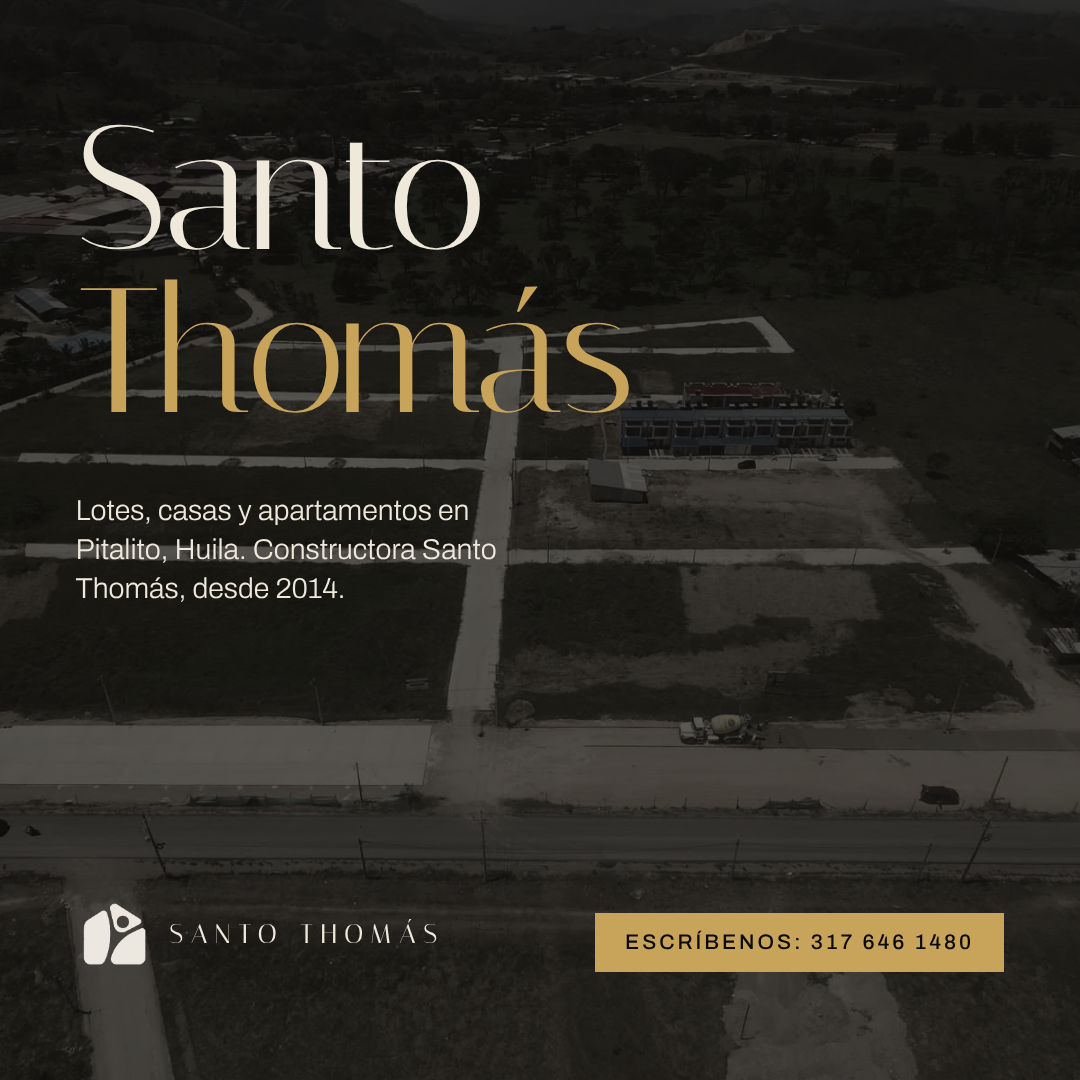
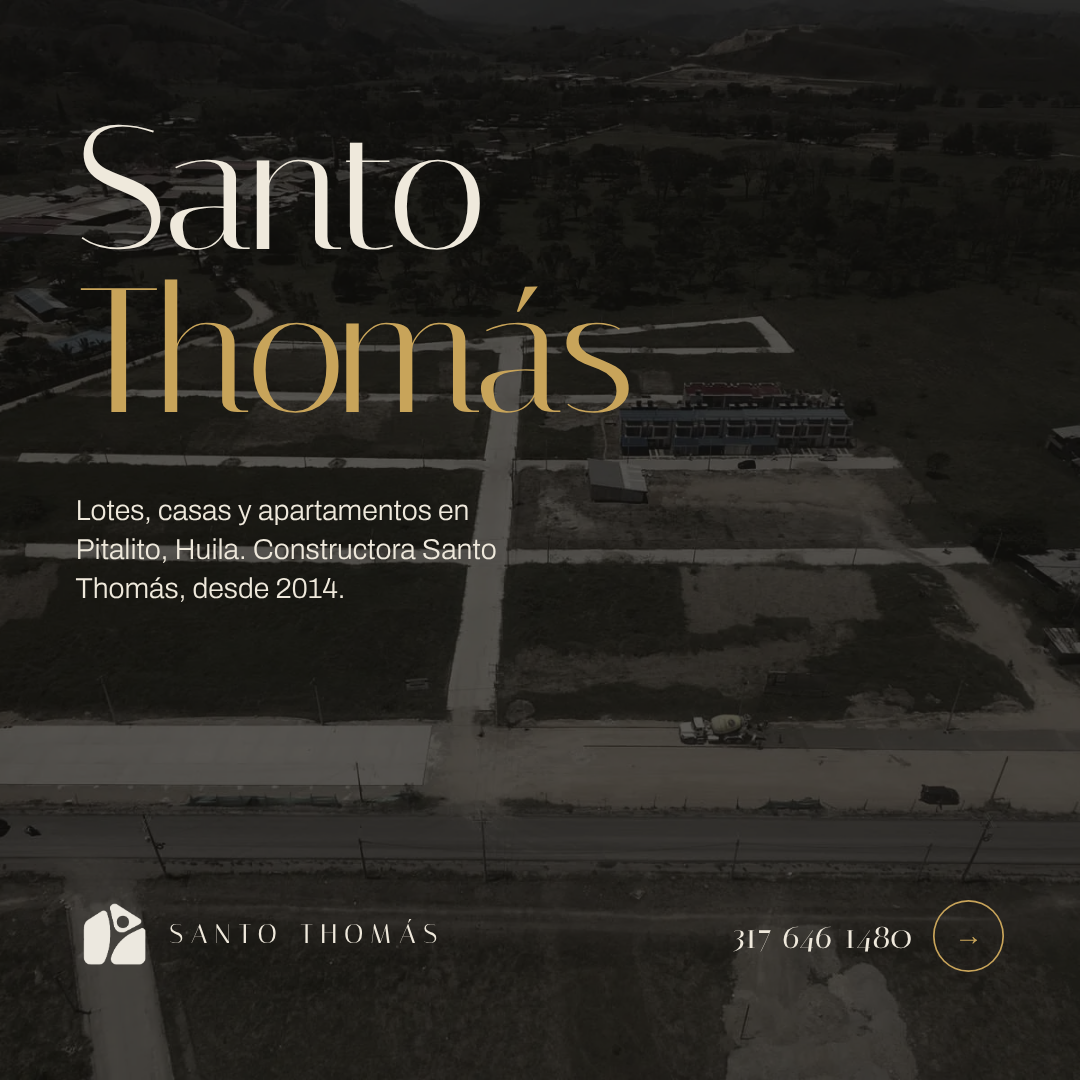
Santo Thomás page: lighter primary actions with animated arrow circle
Claude-Session: https://claude.ai/code/session_01EuNx7qHGaqCun31qjyEdxN

Changed region(s): [[0.55, 0.825, 0.9472, 0.9167]]

diff --git a/santo-thomas/index.html b/santo-thomas/index.html
@@ -80,10 +80,17 @@ em{font-style:normal;color:var(--oro)}
 .accion:hover::before,.accion:focus-visible::before{width:84px}
 .accion:hover{color:var(--oro)}
 .accion:active::before{width:96px}
-.accion.oro{background:var(--oro);color:var(--negro);padding:0 28px;min-height:54px;gap:0;transition:background .3s,transform .15s}
+/* Acción principal: texto en serif y un círculo con flecha que se llena de oro al pasar */
+.accion.oro{gap:18px;min-height:56px;padding:0;background:none;color:inherit;font-family:var(--serif);font-size:clamp(21px,1.7vw,26px);font-weight:400;letter-spacing:0;text-transform:none;line-height:1.1}
 .accion.oro::before{display:none}
-.accion.oro:hover{background:#d8b871;color:var(--negro)}
-.accion.oro:active{transform:translateY(2px)}
+.accion.oro > span{background:linear-gradient(var(--oro),var(--oro)) left bottom/0 1px no-repeat;padding-bottom:5px;transition:background-size .6s var(--salir)}
+.accion.oro::after{content:"\2192";flex:none;display:grid;place-items:center;width:56px;height:56px;border-radius:50%;font:300 20px/1 Archivo,sans-serif;color:var(--oro);box-shadow:inset 0 0 0 1px var(--oro);background:radial-gradient(circle,var(--oro) 50%,transparent 51%) center/0 0 no-repeat;transition:background-size .55s var(--salir),color .3s,transform .55s var(--salir)}
+.accion.oro.abajo::after{content:"\2193"}
+.accion.oro:hover,.accion.oro:focus-visible{color:inherit}
+.accion.oro:hover > span,.accion.oro:focus-visible > span{background-size:100% 1px}
+.accion.oro:hover::after,.accion.oro:focus-visible::after{background-size:220% 220%;color:var(--negro);transform:translateX(8px)}
+.accion.oro.abajo:hover::after{transform:translateY(6px)}
+.accion.oro:active::after{transform:scale(.92)}
 .enlace{text-decoration:underline;text-decoration-color:var(--bronce);text-decoration-thickness:1px;text-underline-offset:5px;transition:color .25s}
 .enlace:hover{color:var(--oro)}
 
@@ -286,8 +293,9 @@ em{font-style:normal;color:var(--oro)}
 .cierre .campo .rot{color:rgba(11,10,8,.72)}
 .cierre .campo .enlace{text-decoration-color:rgba(11,10,8,.5)}
 .cierre .campo .enlace:hover{color:var(--negro);text-decoration-color:var(--negro)}
-.cierre .campo .accion.oro{background:var(--negro);color:var(--marfil)}
-.cierre .campo .accion.oro:hover{background:#1c1914;color:var(--marfil)}
+.cierre .campo .accion.oro > span{background-image:linear-gradient(var(--negro),var(--negro))}
+.cierre .campo .accion.oro::after{color:var(--negro);box-shadow:inset 0 0 0 1px var(--negro);background-image:radial-gradient(circle,var(--negro) 50%,transparent 51%)}
+.cierre .campo .accion.oro:hover::after{color:var(--oro)}
 .cierre .datos{display:grid;gap:clamp(32px,5vw,80px);padding-bottom:clamp(64px,9vw,140px)}
 @media(min-width:900px){.cierre .datos{grid-template-columns:repeat(12,minmax(0,1fr));column-gap:var(--m);align-items:end}.cierre .datos > div{grid-column:1/8}.cierre address{grid-column:9/13}}
 .cierre .tel{font-family:var(--serif);font-size:clamp(48px,8vw,132px);letter-spacing:0;color:var(--negro);line-height:.9;text-decoration:none;display:inline-block;margin-block:22px 30px;transition:color .25s}
@@ -296,7 +304,7 @@ em{font-style:normal;color:var(--oro)}
 .cierre .firma{padding-top:clamp(48px,7vw,100px);font-family:var(--serif);font-size:15vw;line-height:.86;letter-spacing:-.015em;white-space:nowrap;text-align:center;color:var(--carbon-2);padding-bottom:.06em;user-select:none}
 .cierre .pie{padding:22px var(--m);border-top:1px solid var(--linea);display:flex;flex-wrap:wrap;gap:8px 24px;justify-content:space-between}
 
-.flota{position:fixed;left:0;right:0;bottom:0;z-index:14;display:none;justify-content:center;padding:14px var(--m) calc(14px + env(safe-area-inset-bottom));background:var(--oro);color:var(--negro);text-decoration:none;font-size:11px;font-weight:600;letter-spacing:.24em;text-transform:uppercase}
+.flota{position:fixed;left:0;right:0;bottom:0;z-index:14;display:none;justify-content:center;padding:14px var(--m) calc(14px + env(safe-area-inset-bottom));background:var(--negro);color:var(--oro);border-top:1px solid var(--linea);text-decoration:none;font-size:11px;font-weight:500;letter-spacing:.24em;text-transform:uppercase}
 @media(max-width:899px){.flota{display:flex}body{padding-bottom:52px}}
 </style>
 <script>document.documentElement.classList.add('js')</script>
@@ -331,7 +339,7 @@ em{font-style:normal;color:var(--oro)}
   <div class="pie">
     <div class="apoyo">
       <p data-sube style="--i:4">Lotes, casas y apartamentos en Pitalito. Constructora Santo Thomás urbaniza y construye en el sur del Huila desde 2014.</p>
-      <a class="accion oro" data-sube style="--i:5" href="#proyectos">Ver los proyectos</a>
+      <a class="accion oro abajo" data-sube style="--i:5" href="#proyectos"><span>Ver los proyectos</span></a>
     </div>
     <p class="rot coord" data-sube style="--i:5">Pitalito, Huila<br><b>Valle de Laboyos</b></p>
   </div>
@@ -403,7 +411,7 @@ em{font-style:normal;color:var(--oro)}
             <h3>Santo Thomás <em>Urbanismo</em></h3>
             <p>Lotes residenciales y comerciales en Pitalito, con vías, conexión a servicios públicos y zonas verdes.</p>
             <dl class="ficha"><dt>Tipo</dt><dd>Lotes residenciales y comerciales</dd><dt>Lugar</dt><dd>Pitalito, Huila</dd></dl>
-            <a class="accion oro" href="https://wa.me/573176461480?text=Hola%2C%20quiero%20conocer%20los%20lotes%20disponibles%20en%20Santo%20Thom%C3%A1s%20Urbanismo.">Pedir áreas y precios</a>
+            <a class="accion oro" href="https://wa.me/573176461480?text=Hola%2C%20quiero%20conocer%20los%20lotes%20disponibles%20en%20Santo%20Thom%C3%A1s%20Urbanismo."><span>Pedir áreas y precios</span></a>
           </div>
         </div>
       </article>
@@ -416,7 +424,7 @@ em{font-style:normal;color:var(--oro)}
             <h3>Torre <em>Santo Thomás</em></h3>
             <p>Apartamentos sobre una plataforma de locales comerciales. Las imágenes son renders: muestran el diseño, no la obra terminada.</p>
             <dl class="ficha"><dt>Tipo</dt><dd>Apartamentos y locales</dd><dt>Lugar</dt><dd>Pitalito, Huila</dd></dl>
-            <a class="accion oro" href="https://wa.me/573176461480?text=Hola%2C%20quiero%20informaci%C3%B3n%20sobre%20la%20Torre%20Santo%20Thom%C3%A1s.">Pedir planos de la torre</a>
+            <a class="accion oro" href="https://wa.me/573176461480?text=Hola%2C%20quiero%20informaci%C3%B3n%20sobre%20la%20Torre%20Santo%20Thom%C3%A1s."><span>Pedir planos de la torre</span></a>
           </div>
         </div>
       </article>
@@ -429,7 +437,7 @@ em{font-style:normal;color:var(--oro)}
             <h3>Casas <em>y edificios</em></h3>
             <p>Casas de uno y dos pisos en Pitalito, y edificios de apartamentos con locales en el primer piso.</p>
             <dl class="ficha"><dt>Tipo</dt><dd>Vivienda de uno a cuatro pisos</dd><dt>Lugar</dt><dd>Pitalito, Huila</dd></dl>
-            <a class="accion oro" href="https://wa.me/573176461480?text=Hola%2C%20quiero%20informaci%C3%B3n%20sobre%20las%20casas%20de%20Constructora%20Santo%20Thom%C3%A1s.">Preguntar por casas</a>
+            <a class="accion oro" href="https://wa.me/573176461480?text=Hola%2C%20quiero%20informaci%C3%B3n%20sobre%20las%20casas%20de%20Constructora%20Santo%20Thom%C3%A1s."><span>Preguntar por casas</span></a>
           </div>
         </div>
       </article>
@@ -485,7 +493,7 @@ em{font-style:normal;color:var(--oro)}
         <label><span><input type="radio" name="tipo" value="torre">Apartamento</span></label>
       </div>
       <input type="hidden" name="text" id="busca-texto" value="Hola, estoy buscando un lote residencial en Pitalito. ¿Qué tienen disponible?">
-      <button class="accion oro" type="submit" data-sube style="--i:3" id="busca-btn">Preguntar por lotes residenciales</button>
+      <button class="accion oro" type="submit" data-sube style="--i:3" id="busca-btn"><span>Preguntar por lotes residenciales</span></button>
     </form>
     <div data-sube style="--i:2">
       <div class="plano"><canvas id="plano" role="img" aria-label="Plano ilustrativo de una urbanización que resalta el tipo de inmueble elegido."></canvas></div>
@@ -512,7 +520,7 @@ em{font-style:normal;color:var(--oro)}
     <div>
       <p class="rot" data-sube>Contacto</p>
       <a class="tel" data-sube style="--i:1" href="tel:+573176461480">317 646 1480</a><br>
-      <a class="accion oro" data-sube style="--i:2" href="https://wa.me/573176461480?text=Hola%2C%20quiero%20informaci%C3%B3n%20sobre%20los%20proyectos%20de%20Constructora%20Santo%20Thom%C3%A1s.">Escribir por WhatsApp</a>
+      <a class="accion oro" data-sube style="--i:2" href="https://wa.me/573176461480?text=Hola%2C%20quiero%20informaci%C3%B3n%20sobre%20los%20proyectos%20de%20Constructora%20Santo%20Thom%C3%A1s."><span>Escribir por WhatsApp</span></a>
     </div>
     <address data-sube style="--i:2">
       <span>Carrera 15 No. 19A-01 Sur, local 148<br>Centro Comercial Gran Plaza San Antonio<br>Pitalito, Huila</span>
@@ -662,7 +670,7 @@ em{font-style:normal;color:var(--oro)}
   }
   form.addEventListener('change', function (e) {
     if (e.target.name !== 'tipo') return;
-    btn.textContent = copia[e.target.value][0]; texto.value = copia[e.target.value][1];
+    btn.firstElementChild.textContent = copia[e.target.value][0]; texto.value = copia[e.target.value][1];
     if (busca) { busca.tipo = e.target.value; busca.pintar(); }
   });
   form.addEventListener('submit', function (e) {

diff --git a/santo-thomas/banners/banners.html b/santo-thomas/banners/banners.html
@@ -16,7 +16,8 @@ h1{font-family:'Italiana',serif;font-weight:400;letter-spacing:-.015em;line-heig
 .fila{display:flex;align-items:flex-end;justify-content:space-between;gap:4cqw}
 .marca{display:flex;align-items:center;gap:calc(var(--u)*2);font-family:'Italiana',serif;font-weight:400;font-size:max(16px,calc(var(--u)*3.2));letter-spacing:.28em;text-transform:uppercase}
 .marca img{height:calc(var(--u)*9);width:auto}
-.cta{background:var(--oro);color:var(--tinta);font-weight:500;letter-spacing:.14em;text-transform:uppercase;font-size:max(16px,calc(var(--u)*2.5));min-height:44px;padding:calc(var(--u)*2.2) calc(var(--u)*3.6);display:flex;align-items:center;white-space:nowrap}
+.cta{color:var(--cal);font-family:'Italiana',serif;font-size:max(18px,calc(var(--u)*4.2));min-height:44px;display:flex;align-items:center;gap:calc(var(--u)*2.4);white-space:nowrap}
+.cta::after{content:"\2192";display:grid;place-items:center;width:calc(var(--u)*8.5);height:calc(var(--u)*8.5);min-width:40px;min-height:40px;border-radius:50%;font:300 calc(var(--u)*3.4)/1 Archivo,sans-serif;color:var(--oro);box-shadow:inset 0 0 0 max(1px,calc(var(--u)*.2)) var(--oro)}
 /* A · Foto */
 .foto{background:var(--tinta)}
 .foto .img{position:absolute;inset:0;background:url(../img/aerea-loteo.webp) 50% 55%/cover}
@@ -31,7 +32,7 @@ h1{font-family:'Italiana',serif;font-weight:400;letter-spacing:-.015em;line-heig
 .loteo .panel{position:absolute;left:0;top:0;bottom:0;width:var(--panel);background:var(--campo-osc)}
 .loteo.alto .panel{width:100%;height:56%;bottom:auto}
 .loteo.alto .marca{background:var(--campo-osc);padding:calc(var(--u)*2) calc(var(--u)*3);margin-left:calc(var(--u)*-3)}
-.loteo .cta{box-shadow:0 0 0 calc(var(--u)*1.4) var(--campo-osc)}
+.loteo .cta{background:var(--campo-osc);box-shadow:0 0 0 calc(var(--u)*2) var(--campo-osc)}
 .loteo h1,.loteo .sub{max-width:7ch}.loteo .sub{max-width:22ch}
 .ancho h1,.tipografia.ancho h1{max-width:16ch;font-size:calc(var(--u)*19)}
 .ancho .sub{margin-top:calc(var(--u)*5);max-width:44ch}
@@ -49,7 +50,7 @@ h1 em{font-style:normal;color:var(--oro)}
     </div>
     <div class="fila">
       <div class="marca"><img src="../img/isotipo-solido.png" alt="">Santo Thomás</div>
-      <div class="cta">Escríbenos: 317 646 1480</div>
+      <div class="cta">317 646 1480</div>
     </div>
   </div>
 </div>
